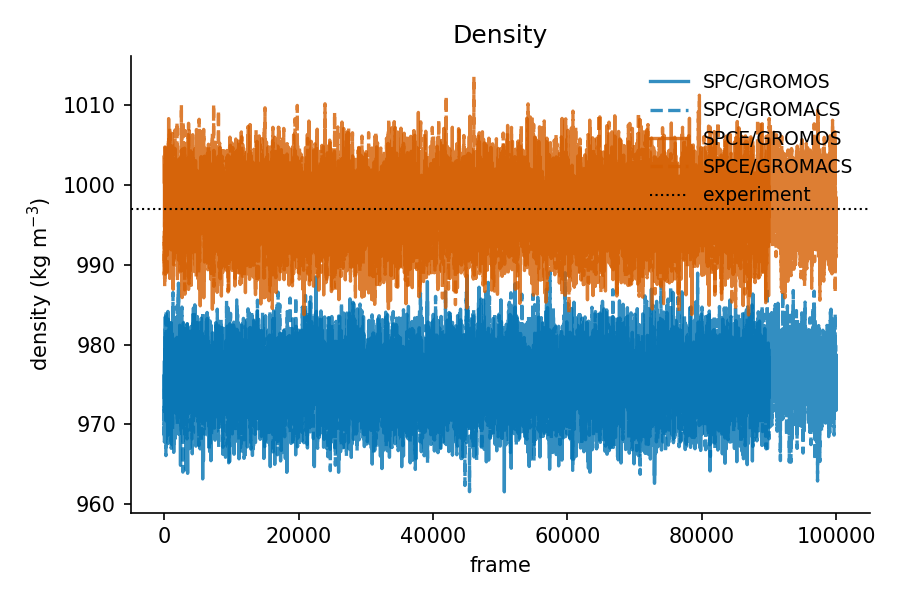
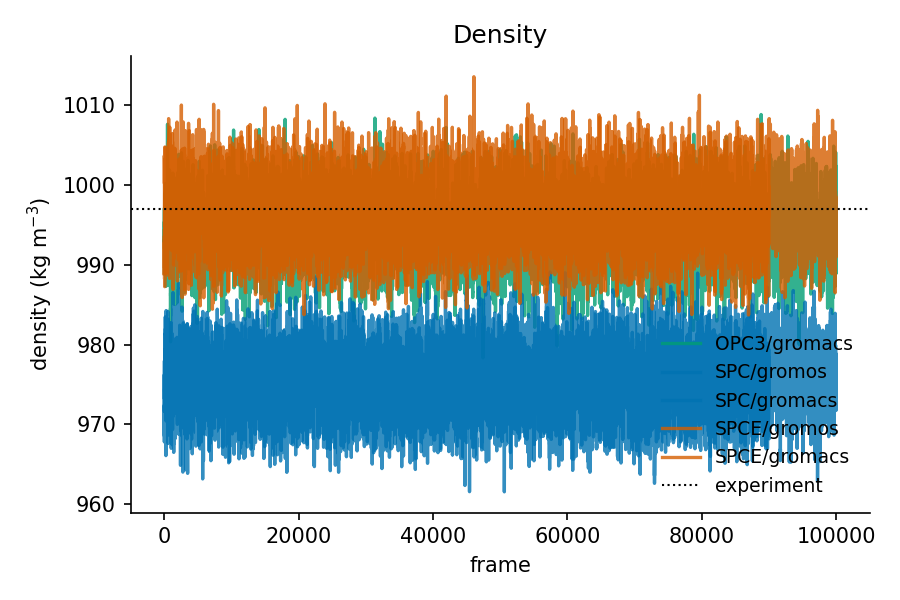
results/summary: regenerate with the OPC3/gromacs column
All five runs re-analysed through `water-bench report`.  OPC3 lands at
density -0.3%, D +3.0%, tau2 +13.9% and eps 78.3 +/- 2.4 against
experiment's 78.4 -- against SPC/E's 69.4 and SPC's 66.3, so the
dielectric gap the two older models share is closed.

The report also gains a "dH_vap - E_pol" row.  Without it the table shows
OPC3 at +17.4% from experiment with nothing saying that is the raw value
and the corrected one is +1.4%, which reads as a failure of the model
rather than of the comparison.  The row is empty for SPC, which carries no
correction by convention.  It appears in summary.md on the next report run.

diff --git a/src/water_benchmarking/experiment.py b/src/water_benchmarking/experiment.py
@@ -20,6 +20,10 @@ class Reference:
 EXPERIMENT = {
     "density": Reference(997.05, "kg m^-3", "Kell 1975, J. Chem. Eng. Data 20:97"),
     "hov": Reference(43.99, "kJ mol^-1", "Wagner & Pruss 2002, IAPWS-95"),
+    # The same measurement as "hov"; a model that carries a self-polarisation
+    # correction is compared with experiment after subtracting it.
+    "hov_polarisation_corrected": Reference(
+        43.99, "kJ mol^-1", "Wagner & Pruss 2002, IAPWS-95"),
     "diffusion": Reference(2.30e-9, "m^2 s^-1", "Holz et al. 2000, PCCP 2:4740"),
     "dielectric": Reference(78.4, "-", "Fernandez et al. 1997, J. Phys. Chem. Ref. Data 26:1125"),
     "tau2_HH": Reference(2.0, "ps", "NMR relaxation; Ludwig 2001, Angew. Chem. 40:1808"),
@@ -67,6 +71,7 @@ LITERATURE = {
         "diffusion": (2.4e-9, 2.8e-9),
         "dielectric": (68.0, 74.0),
         "tau2_HH": (1.7, 2.2),
+        "hov_polarisation_corrected": (43.0, 45.0),   # Berendsen 1987
     },
     # OPC3: Izadi & Onufriev 2016, J. Chem. Phys. 145:074501, Table III, at
     # 298.16 K and 1 bar under Ewald/PME:
@@ -89,6 +94,7 @@ LITERATURE = {
         "hov": (50.0, 53.5),             # raw; 44.89 + 7.03 polarisation ~ 51.9
         "diffusion": (2.1e-9, 2.6e-9),   # 2.30 +/- 0.02
         "dielectric": (73.0, 82.0),      # 78.4 +/- 1, the closest of any 3-point model
+        "hov_polarisation_corrected": (43.5, 46.0),   # the paper's 44.89
     },
 }
 

diff --git a/src/water_benchmarking/report.py b/src/water_benchmarking/report.py
@@ -11,6 +11,11 @@ from . import experiment, protocol
 PROPERTIES = (
     ("density", "Density", "kg m^-3", "{:.1f}"),
     ("hov", "dH_vap", "kJ mol^-1", "{:.2f}"),
+    # The raw dH_vap is the model's own quantity; this is the one that compares
+    # with experiment for a model whose dipole was enhanced to mimic polarisation.
+    # Without the row, OPC3 reads as +17% off experiment with nothing saying that
+    # its corrected value is +1.4% -- see docs/polarisation_correction.md.
+    ("hov_polarisation_corrected", "dH_vap - E_pol", "kJ mol^-1", "{:.2f}"),
     ("diffusion", "Self-diffusion D", "1e-9 m^2 s^-1", "{:.2f}"),
     ("tau2_HH", "Rot. corr. time tau2(HH)", "ps", "{:.2f}"),
     ("tau1_dipole", "Rot. corr. time tau1(mu)", "ps", "{:.2f}"),

diff --git a/results/summary.md b/results/summary.md
@@ -5,42 +5,45 @@ Single-range cutoff 1.8 nm, reaction field eps_rf = 61, timestep 1 fs.
 
 ## Results
 
-| Property                 | Unit          | SPC/GROMOS       | SPC/GROMACS     | SPCE/GROMOS      | SPCE/GROMACS     | Experiment | Source                                                    |
-|--------------------------|---------------|------------------|-----------------|------------------|------------------|------------|-----------------------------------------------------------|
-| Density                  | kg m^-3       | 974.8 +/- 0.071  | 976.0 +/- 0.078 | 996.4 +/- 0.086  | 997.4 +/- 0.069  | 997.0      | Kell 1975, J. Chem. Eng. Data 20:97                       |
-| dH_vap                   | kJ mol^-1     | 44.16 +/- 0.0013 | 44.19 +/- 0.001 | 49.24 +/- 0.0016 | 49.27 +/- 0.0014 | 43.99      | Wagner & Pruss 2002, IAPWS-95                             |
-| Self-diffusion D         | 1e-9 m^2 s^-1 | 4.45 +/- 0.0032  | 4.31 +/- 0.014  | 2.78 +/- 0.021   | 2.75 +/- 0.004   | 2.30       | Holz et al. 2000, PCCP 2:4740                             |
-| Rot. corr. time tau2(HH) | ps            | 1.16             | 1.17            | 1.96             | 1.98             | 2.00       | NMR relaxation; Ludwig 2001, Angew. Chem. 40:1808         |
-| Rot. corr. time tau1(mu) | ps            | 2.81             | 2.83            | 4.60             | 4.63             | 8.30       | Debye tau_D (collective); Ronne et al. 1997, JCP 107:5319 |
-| Dielectric constant      | -             | 68.1 +/- 1.9     | 66.3 +/- 1.7    | 69.8 +/- 2.2     | 69.4 +/- 1.5     | 78.4       | Fernandez et al. 1997, J. Phys. Chem. Ref. Data 26:1125   |
+| Property                 | Unit          | OPC3/gromacs     | SPC/gromos       | SPC/gromacs     | SPCE/gromos      | SPCE/gromacs     | Experiment | Source                                                    |
+|--------------------------|---------------|------------------|------------------|-----------------|------------------|------------------|------------|-----------------------------------------------------------|
+| Density                  | kg m^-3       | 994.4 +/- 0.072  | 974.8 +/- 0.071  | 976.0 +/- 0.078 | 996.4 +/- 0.086  | 997.4 +/- 0.069  | 997.0      | Kell 1975, J. Chem. Eng. Data 20:97                       |
+| dH_vap                   | kJ mol^-1     | 51.66 +/- 0.0016 | 44.16 +/- 0.0013 | 44.19 +/- 0.001 | 49.24 +/- 0.0016 | 49.27 +/- 0.0014 | 43.99      | Wagner & Pruss 2002, IAPWS-95                             |
+| Self-diffusion D         | 1e-9 m^2 s^-1 | 2.37 +/- 0.004   | 4.45 +/- 0.0032  | 4.31 +/- 0.014  | 2.78 +/- 0.021   | 2.75 +/- 0.004   | 2.30       | Holz et al. 2000, PCCP 2:4740                             |
+| Rot. corr. time tau2(HH) | ps            | 2.28             | 1.16             | 1.17            | 1.96             | 1.98             | 2.00       | NMR relaxation; Ludwig 2001, Angew. Chem. 40:1808         |
+| Rot. corr. time tau1(mu) | ps            | 5.36             | 2.81             | 2.83            | 4.60             | 4.63             | 8.30       | Debye tau_D (collective); Ronne et al. 1997, JCP 107:5319 |
+| Dielectric constant      | -             | 78.3 +/- 2.4     | 68.1 +/- 1.9     | 66.3 +/- 1.7    | 69.8 +/- 2.2     | 69.4 +/- 1.5     | 78.4       | Fernandez et al. 1997, J. Phys. Chem. Ref. Data 26:1125   |
 
 ## Deviation from experiment
 
 `[!]` marks a value outside the published range for that model, which points
 at the setup rather than at the model -- unless a note below says otherwise.
+`[?]` marks a property with no published range on record for that model, so
+the run is unchecked against the model rather than confirmed to reproduce it.
 tau1(mu) is omitted: the experimental Debye time is a collective quantity and
 not directly comparable to the single-molecule correlation time simulated.
 
-| Property                 | SPC/GROMOS  | SPC/GROMACS | SPCE/GROMOS | SPCE/GROMACS |
-|--------------------------|-------------|-------------|-------------|--------------|
-| Density                  | -2.2%       | -2.1%       | -0.1%       | +0.0%        |
-| dH_vap                   | +0.4%  [!]  | +0.5%  [!]  | +11.9%      | +12.0%       |
-| Self-diffusion D         | +93.5%  [!] | +87.2%      | +20.8%      | +19.4%       |
-| Rot. corr. time tau2(HH) | -41.9%      | -41.5%      | -1.9%       | -0.8%        |
-| Dielectric constant      | -13.2%      | -15.5%      | -10.9%      | -11.5%       |
+| Property                 | OPC3/gromacs | SPC/gromos  | SPC/gromacs | SPCE/gromos | SPCE/gromacs |
+|--------------------------|--------------|-------------|-------------|-------------|--------------|
+| Density                  | -0.3%        | -2.2%       | -2.1%       | -0.1%       | +0.0%        |
+| dH_vap                   | +17.4%       | +0.4%  [!]  | +0.5%  [!]  | +11.9%      | +12.0%       |
+| Self-diffusion D         | +3.0%        | +93.5%  [!] | +87.2%      | +20.8%      | +19.4%       |
+| Rot. corr. time tau2(HH) | +13.9%  [?]  | -41.9%      | -41.5%      | -1.9%       | -0.8%        |
+| Dielectric constant      | -0.1%        | -13.2%      | -15.5%      | -10.9%      | -11.5%       |
 
-- SPC/GROMOS, hov: published SPC dH_vap (41-44) is mostly at ~0.9 nm cutoffs; the 1.8 nm cutoff here recovers more attractive energy, so a value at the top of the range is the protocol, not an error
-- SPC/GROMACS, hov: published SPC dH_vap (41-44) is mostly at ~0.9 nm cutoffs; the 1.8 nm cutoff here recovers more attractive energy, so a value at the top of the range is the protocol, not an error
+- SPC/gromos, hov: published SPC dH_vap (41-44) is mostly at ~0.9 nm cutoffs; the 1.8 nm cutoff here recovers more attractive energy, so a value at the top of the range is the protocol, not an error
+- SPC/gromacs, hov: published SPC dH_vap (41-44) is mostly at ~0.9 nm cutoffs; the 1.8 nm cutoff here recovers more attractive energy, so a value at the top of the range is the protocol, not an error
 
 ## Dielectric constant: relation used per run
 
 y = (<M^2> - <M>^2) / (3 eps0 V kT) is what is measured; the relation that
 turns it into eps depends on the boundary the engine realises (see README).
 
-- SPC/GROMOS: Neumann, eps_rf = 61  (y = 43.4; conducting 44.4, Neumann 68)
-- SPC/GROMACS: conducting boundary, eps = 1 + y  (y = 65.3; conducting 66.3, Neumann 140)
-- SPCE/GROMOS: Neumann, eps_rf = 61  (y = 44.1; conducting 45.1, Neumann 70)
-- SPCE/GROMACS: conducting boundary, eps = 1 + y  (y = 68.4; conducting 69.4, Neumann 155)
+- OPC3/gromacs: conducting boundary, eps = 1 + y  (y = 77.3; conducting 78.3, Neumann 209)
+- SPC/gromos: Neumann, eps_rf = 61  (y = 43.4; conducting 44.4, Neumann 68)
+- SPC/gromacs: conducting boundary, eps = 1 + y  (y = 65.3; conducting 66.3, Neumann 140)
+- SPCE/gromos: Neumann, eps_rf = 61  (y = 44.1; conducting 45.1, Neumann 70)
+- SPCE/gromacs: conducting boundary, eps = 1 + y  (y = 68.4; conducting 69.4, Neumann 155)
 
 ## Figures
 
